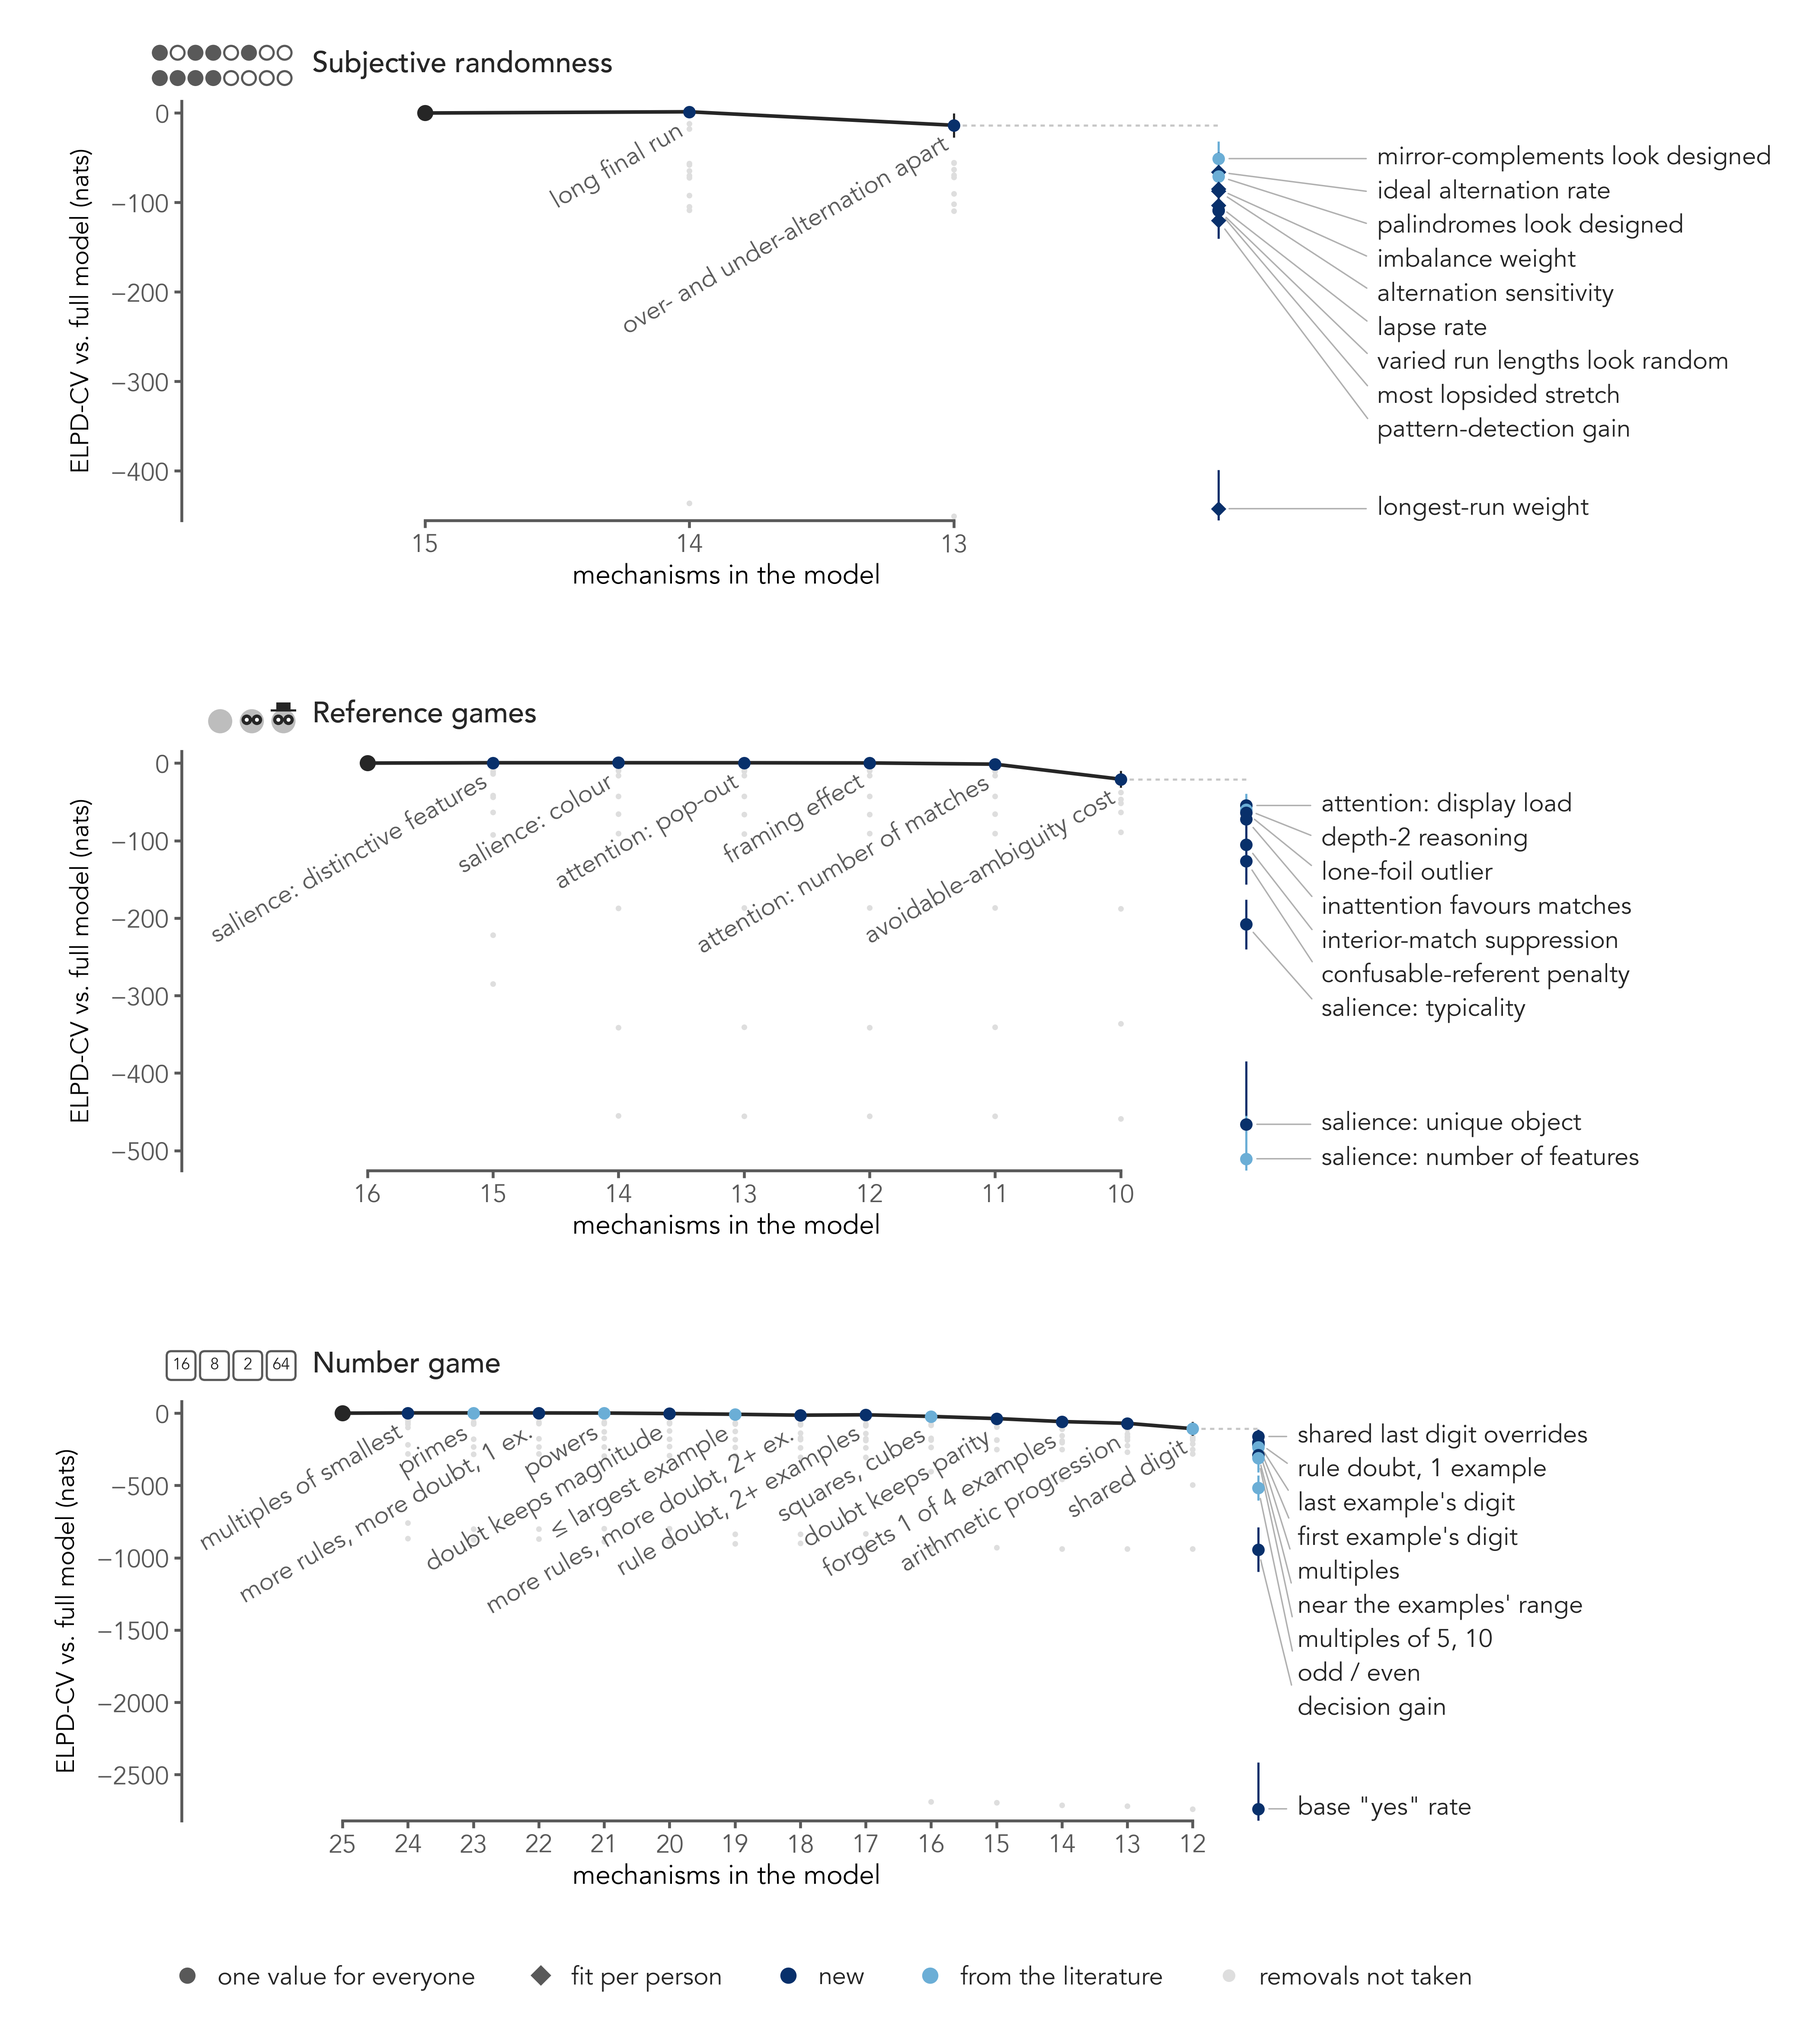
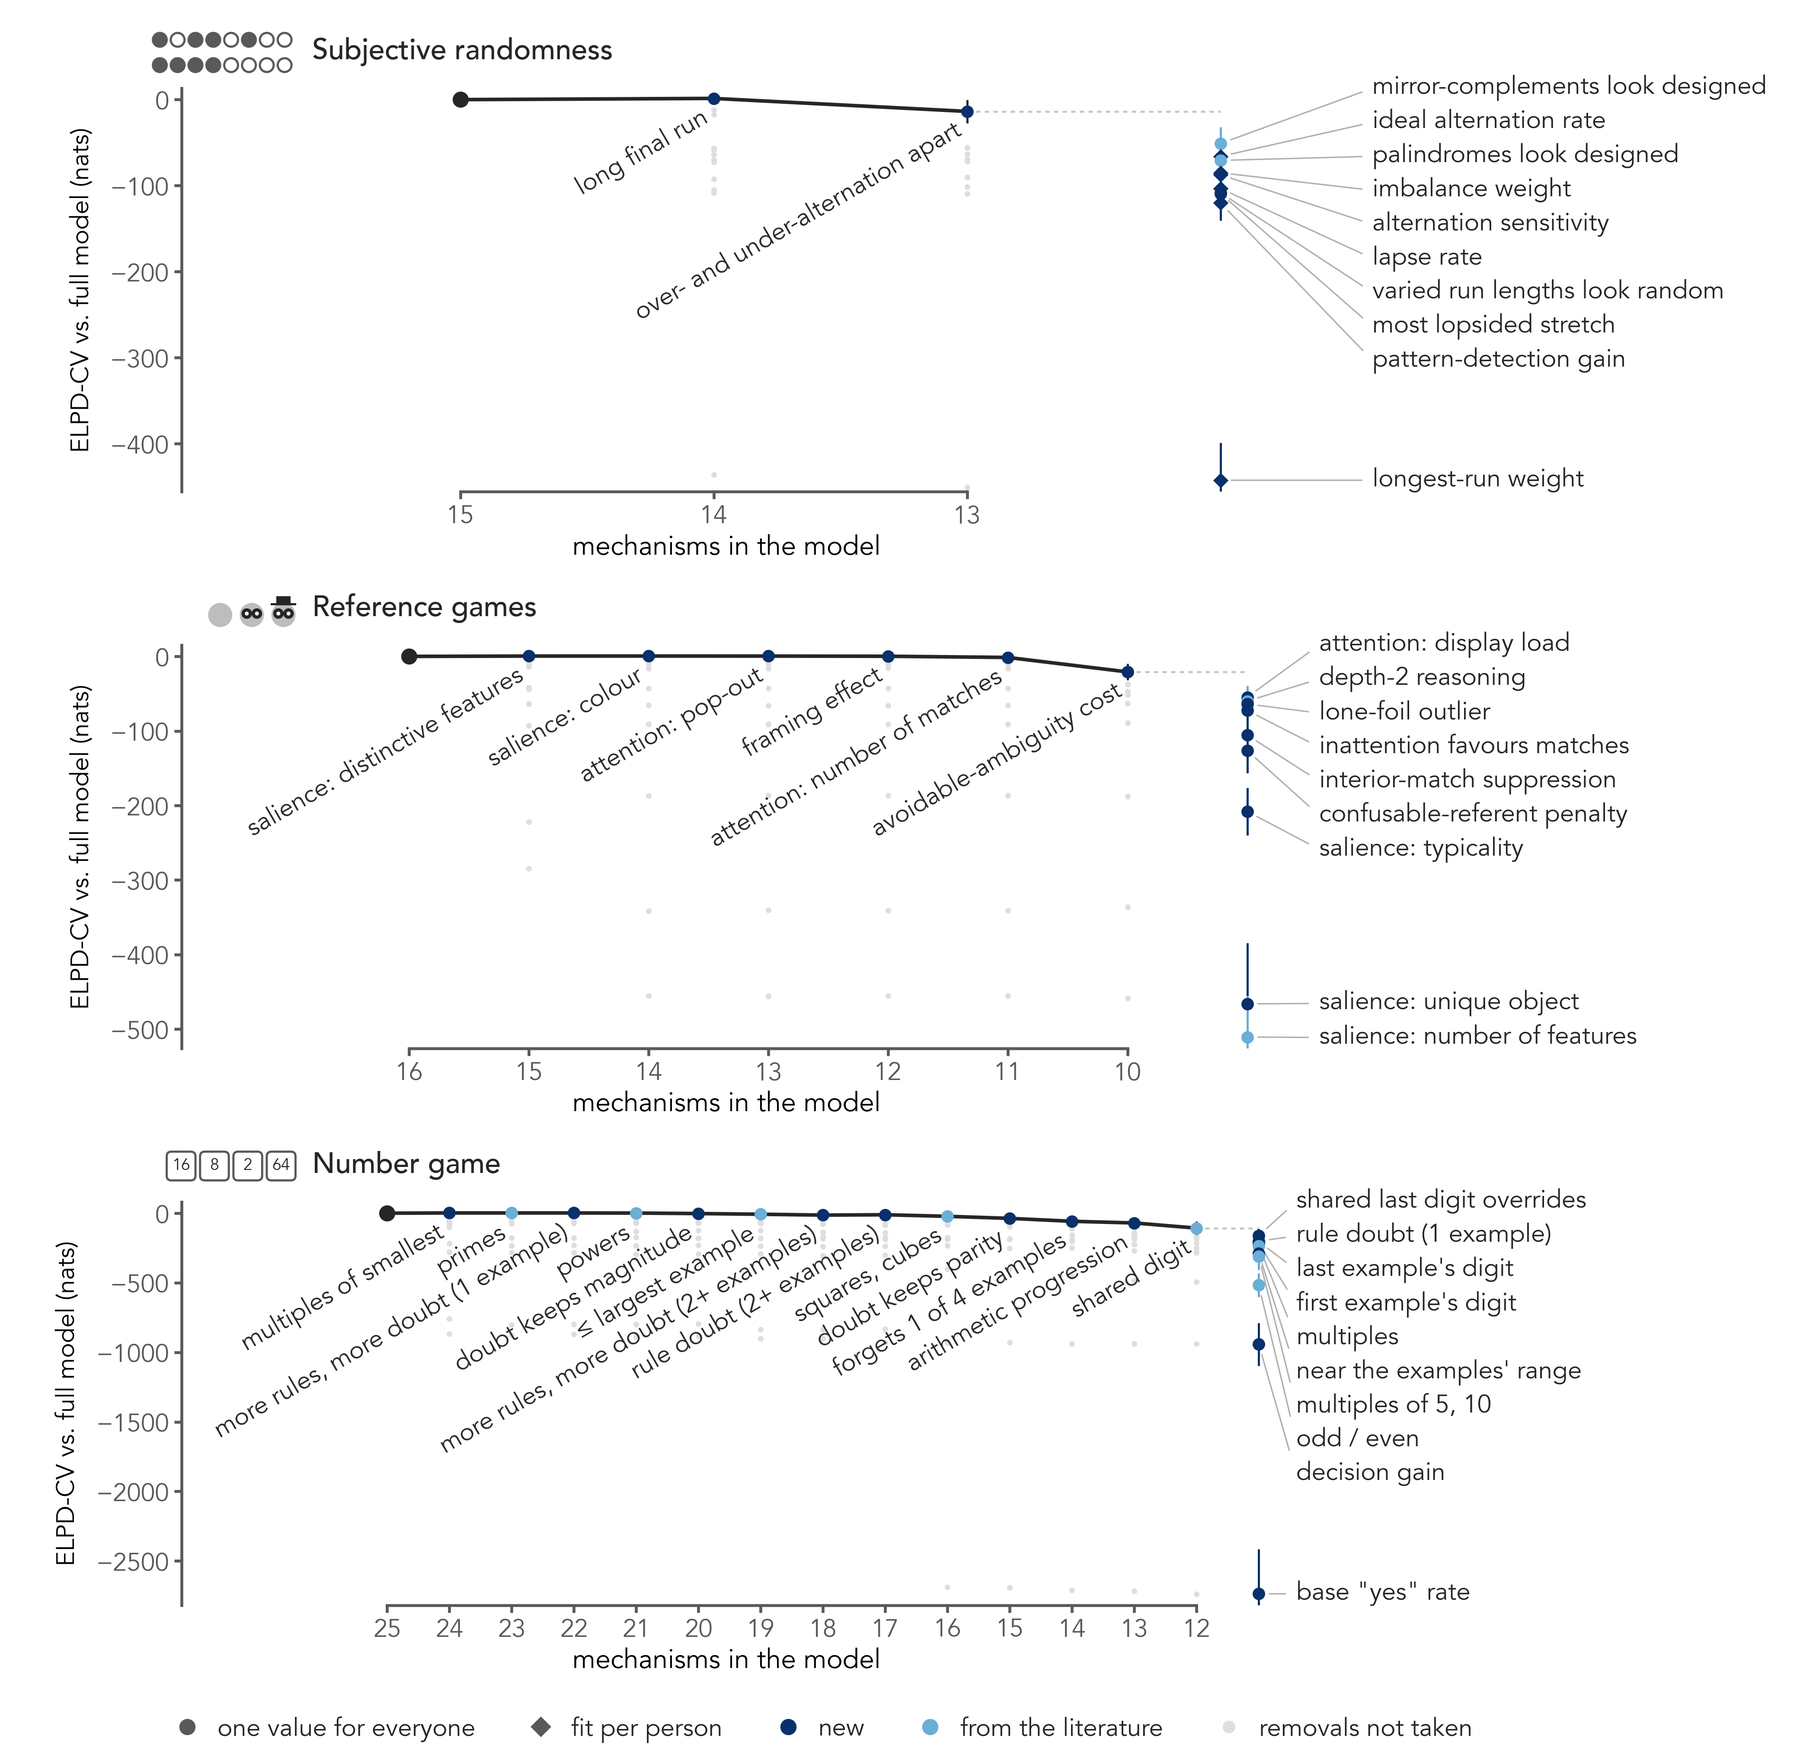
Figure 4 draft: tighter rows; step names in ink; the options' names beside their points, never above the panel; no '1 ex.' abbreviations

diff --git a/data/paper/work/fig4_draft/fig4_draft.py b/data/paper/work/fig4_draft/fig4_draft.py
@@ -22,7 +22,7 @@ from scripts.paper.figures.style import INK, INK_2, TITLE_FONT, TITLES, setup_st
 OUT = here() / "data" / "paper" / "work" / "fig4_draft"
 COLOR_NEW, COLOR_START, PATH = "#08306b", "#6baed6", "#262626"
 NAME_PT, SMALL = 7.0, 7.0  # PNAS: no text under 6 pt at the printed size
-WIDTH_IN, HEIGHT_IN, DPI = 7.0, 7.8, 600  # one row per domain  # the saved figure: PNAS's full width
+WIDTH_IN, HEIGHT_IN, DPI = 7.0, 6.8, 600  # one row per domain  # the saved figure: PNAS's full width
 GREY = "#dedede"  # the removals not taken
 
 
@@ -37,6 +37,24 @@ def sources():
 def style_of(names, m):
     name, origin = names[m]
     return name, (COLOR_NEW if origin == "new" else COLOR_START), ("D" if m.endswith("_personal") else "o")
+
+
+def spread(ys, gap):
+    """Label heights for points at ``ys`` (top first): each as near its point as it can be with at least
+    ``gap`` between neighbours; a run of crowded labels is centred on its points."""
+    groups = []  # runs of labels pushed together: (their points, the top label's height)
+    for y in ys:
+        groups.append([[y], y])
+        while len(groups) > 1 and groups[-2][1] - gap * len(groups[-2][0]) < groups[-1][1]:
+            pts, _ = groups.pop()
+            groups[-1][0] += pts
+        for g in groups[-1:]:  # centre the run on its points
+            g[1] = np.mean(g[0]) + gap * (len(g[0]) - 1) / 2
+        while len(groups) > 1 and groups[-2][1] - gap * len(groups[-2][0]) < groups[-1][1]:
+            pts, _ = groups.pop()
+            groups[-1][0] += pts
+            groups[-1][1] = np.mean(groups[-1][0]) + gap * (len(groups[-1][0]) - 1) / 2
+    return [top - gap * k for pts, top in groups for k in range(len(pts))]
 
 
 def draw(ax, elimination, names):
@@ -62,7 +80,7 @@ def draw(ax, elimination, names):
         name, color, marker = style_of(names, gone)
         ax.scatter([n[k]], [y[k]], s=12 if marker == "o" else 9, marker=marker, color=color, linewidths=0, zorder=4)
         ax.annotate(name, (n[k], y[k]), xytext=(-2, -5), textcoords="offset points", rotation=30, fontsize=NAME_PT,
-                    color=INK_2, ha="right", va="center", rotation_mode="anchor")  # hung below its step
+                    color=INK, ha="right", va="center", rotation_mode="anchor")  # hung below its step
     ax.scatter([n[0]], [0], s=12, color=PATH, zorder=4)
     # the options at the end: every kept mechanism's removal, each at least 2 SE
     xo = lean_n - 1
@@ -75,15 +93,17 @@ def draw(ax, elimination, names):
         labels.append((yo, name, color, yo))
     # the options' names in a column right of them, spread apart, a leader to each
     ax.set_ylim(lo - 0.03 * abs(lo), 0.03 * abs(lo))
-    ax.set_xlim(n[0] + 0.5 + 0.14 * (n[0] - xo), xo - 0.2)  # room left for the first step's name
+    ax.set_xlim(n[0] + 0.5 + 0.2 * (n[0] - xo), xo - 0.2)  # room left for the first step's name
     fig = ax.figure
     fig.canvas.draw()
     to_data = ax.transData.inverted()
     per_pt = abs(to_data.transform((0, 0))[1] - to_data.transform((0, NAME_PT * 1.35 * fig.dpi / 72))[1])
-    placed = []
-    for yo, name, color, at in sorted(labels, key=lambda t: -t[0]):
-        yt = min(yo, placed[-1] - per_pt) if placed else yo
-        placed.append(yt)
+    labels.sort(key=lambda t: -t[0])
+    placed = spread([yo for yo, *_ in labels], per_pt)
+    cap = ax.get_ylim()[1]  # never above the panel: push the top labels down, then their neighbours
+    for k, yt in enumerate(placed):
+        placed[k] = min(yt, cap if k == 0 else placed[k - 1] - per_pt)
+    for (yo, name, color, at), yt in zip(labels, placed):
         ax.annotate(name, (xo, at), xytext=(xo - 0.6, yt), ha="left", va="center", fontsize=NAME_PT, color=INK,
                     annotation_clip=False, arrowprops={"arrowstyle": "-", "color": "#b0b0b0", "lw": 0.4,
                                                          "shrinkA": 1, "shrinkB": 3, "relpos": (0, 0.5)})
@@ -94,8 +114,8 @@ def draw(ax, elimination, names):
 
 
 def figure(canvas_in, names, src):
-    fig, axes = plt.subplots(3, 1, figsize=(canvas_in, HEIGHT_IN), dpi=DPI, gridspec_kw={"hspace": 0.55})
-    fig.subplots_adjust(left=0.1, right=0.7, top=0.95, bottom=0.1)  # the options' names to the right
+    fig, axes = plt.subplots(3, 1, figsize=(canvas_in, HEIGHT_IN), dpi=DPI, gridspec_kw={"hspace": 0.38})
+    fig.subplots_adjust(left=0.1, right=0.7, top=0.95, bottom=0.09)  # the options' names to the right
     for ax, d in zip(axes, TITLES):
         draw(ax, json.loads(src[d].read_text()), names[d])
     for ax in axes:
